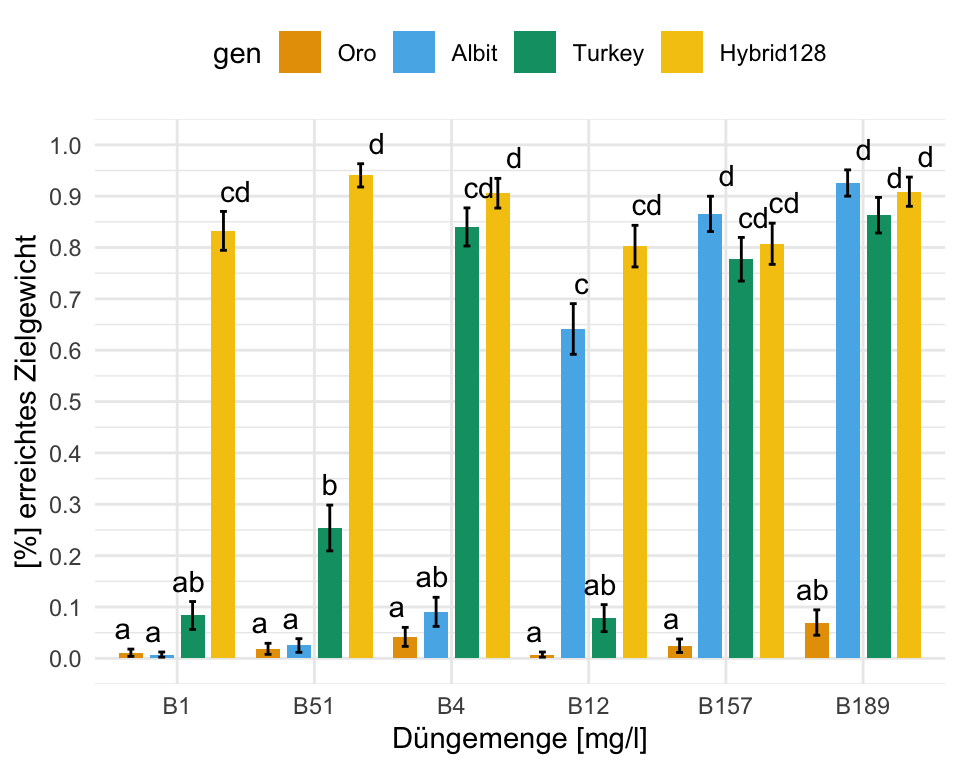
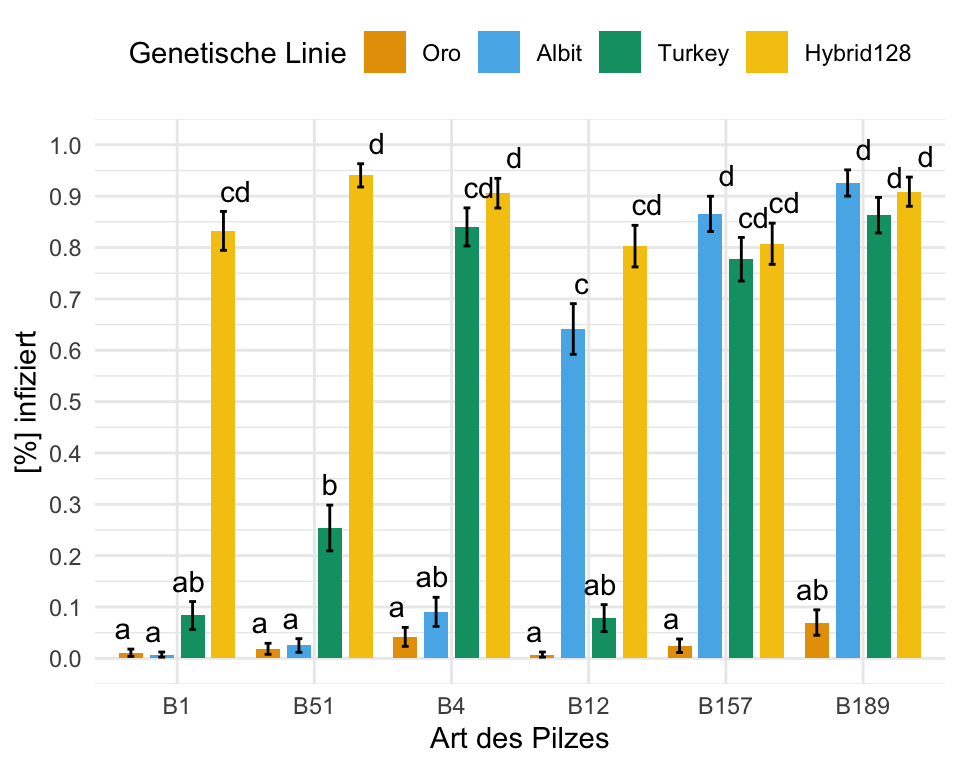
added text

Changed region(s): [[0.125, 0.0312, 0.9688, 0.0938], [0.0, 0.3125, 0.0625, 0.75], [0.4062, 0.9375, 0.6875, 1.0]]

diff --git a/docs/stat-modeling-beta.html b/docs/stat-modeling-beta.html
@@ -760,7 +760,7 @@ div.csl-indent {
 
 </header>
 
-<p><em>Letzte Änderung am 07. January 2024 um 21:57:44</em></p>
+<p><em>Letzte Änderung am 08. January 2024 um 08:42:28</em></p>
 <div class="quarto-figure quarto-figure-center">
 <figure class="figure">
 <p><img src="images/caution.png" class="img-fluid figure-img" style="width:50.0%"></p>
@@ -1644,7 +1644,7 @@ NOTE: If two or more means share the same grouping symbol,
 <span id="cb57-4"><a href="#cb57-4" aria-hidden="true" tabindex="-1"></a>  <span class="fu">ggplot</span>(<span class="fu">aes</span>(<span class="at">x =</span> fert_amount, <span class="at">y =</span> emmean, <span class="at">fill =</span> fert_time)) <span class="sc">+</span></span>
 <span id="cb57-5"><a href="#cb57-5" aria-hidden="true" tabindex="-1"></a>  <span class="fu">theme_minimal</span>() <span class="sc">+</span> </span>
 <span id="cb57-6"><a href="#cb57-6" aria-hidden="true" tabindex="-1"></a>  <span class="fu">labs</span>(<span class="at">y =</span> <span class="st">"[%] erreichtes Zielgewicht"</span>, <span class="at">x =</span> <span class="st">"Düngemenge [mg/l]"</span>,</span>
-<span id="cb57-7"><a href="#cb57-7" aria-hidden="true" tabindex="-1"></a>       <span class="at">color =</span> <span class="st">"Düngezeitpunkt"</span>) <span class="sc">+</span></span>
+<span id="cb57-7"><a href="#cb57-7" aria-hidden="true" tabindex="-1"></a>       <span class="at">fill =</span> <span class="st">"Düngezeitpunkt"</span>) <span class="sc">+</span></span>
 <span id="cb57-8"><a href="#cb57-8" aria-hidden="true" tabindex="-1"></a>  <span class="fu">scale_y_continuous</span>(<span class="at">breaks =</span> <span class="fu">seq</span>(<span class="dv">0</span>, <span class="dv">1</span>, <span class="at">by =</span> <span class="fl">0.1</span>), <span class="at">limits =</span> <span class="fu">c</span>(<span class="dv">0</span>, <span class="dv">1</span>)) <span class="sc">+</span></span>
 <span id="cb57-9"><a href="#cb57-9" aria-hidden="true" tabindex="-1"></a>  <span class="fu">geom_bar</span>(<span class="at">stat =</span> <span class="st">"identity"</span>, <span class="at">width =</span> <span class="fl">0.7</span>,</span>
 <span id="cb57-10"><a href="#cb57-10" aria-hidden="true" tabindex="-1"></a>           <span class="at">position =</span> <span class="fu">position_dodge</span>(<span class="at">width =</span> <span class="fl">0.9</span>, <span class="at">preserve =</span> <span class="st">"single"</span>)) <span class="sc">+</span></span>
@@ -1771,8 +1771,8 @@ NOTE: If two or more means share the same grouping symbol,
 <span id="cb67-3"><a href="#cb67-3" aria-hidden="true" tabindex="-1"></a>  <span class="fu">as_tibble</span>() <span class="sc">%&gt;%</span> </span>
 <span id="cb67-4"><a href="#cb67-4" aria-hidden="true" tabindex="-1"></a>  <span class="fu">ggplot</span>(<span class="fu">aes</span>(<span class="at">x =</span> bunt, <span class="at">y =</span> emmean, <span class="at">fill =</span> gen)) <span class="sc">+</span></span>
 <span id="cb67-5"><a href="#cb67-5" aria-hidden="true" tabindex="-1"></a>  <span class="fu">theme_minimal</span>() <span class="sc">+</span> </span>
-<span id="cb67-6"><a href="#cb67-6" aria-hidden="true" tabindex="-1"></a>  <span class="fu">labs</span>(<span class="at">y =</span> <span class="st">"[%] erreichtes Zielgewicht"</span>, <span class="at">x =</span> <span class="st">"Düngemenge [mg/l]"</span>,</span>
-<span id="cb67-7"><a href="#cb67-7" aria-hidden="true" tabindex="-1"></a>       <span class="at">color =</span> <span class="st">"Düngezeitpunkt"</span>) <span class="sc">+</span></span>
+<span id="cb67-6"><a href="#cb67-6" aria-hidden="true" tabindex="-1"></a>  <span class="fu">labs</span>(<span class="at">y =</span> <span class="st">"[%] infiziert"</span>, <span class="at">x =</span> <span class="st">"Art des Pilzes"</span>,</span>
+<span id="cb67-7"><a href="#cb67-7" aria-hidden="true" tabindex="-1"></a>       <span class="at">fill =</span> <span class="st">"Genetische Linie"</span>) <span class="sc">+</span></span>
 <span id="cb67-8"><a href="#cb67-8" aria-hidden="true" tabindex="-1"></a>  <span class="fu">scale_y_continuous</span>(<span class="at">breaks =</span> <span class="fu">seq</span>(<span class="dv">0</span>, <span class="dv">1</span>, <span class="at">by =</span> <span class="fl">0.1</span>), <span class="at">limits =</span> <span class="fu">c</span>(<span class="dv">0</span>, <span class="dv">1</span>)) <span class="sc">+</span></span>
 <span id="cb67-9"><a href="#cb67-9" aria-hidden="true" tabindex="-1"></a>  <span class="fu">geom_bar</span>(<span class="at">stat =</span> <span class="st">"identity"</span>, <span class="at">width =</span> <span class="fl">0.7</span>,</span>
 <span id="cb67-10"><a href="#cb67-10" aria-hidden="true" tabindex="-1"></a>           <span class="at">position =</span> <span class="fu">position_dodge</span>(<span class="at">width =</span> <span class="fl">0.9</span>, <span class="at">preserve =</span> <span class="st">"single"</span>)) <span class="sc">+</span></span>
